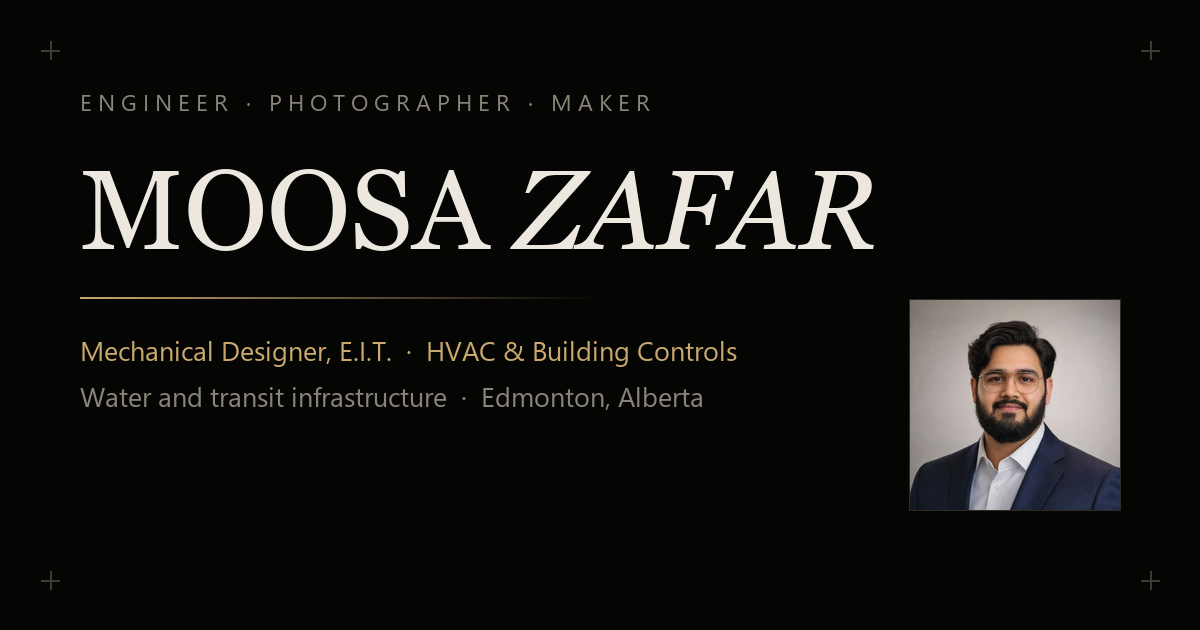
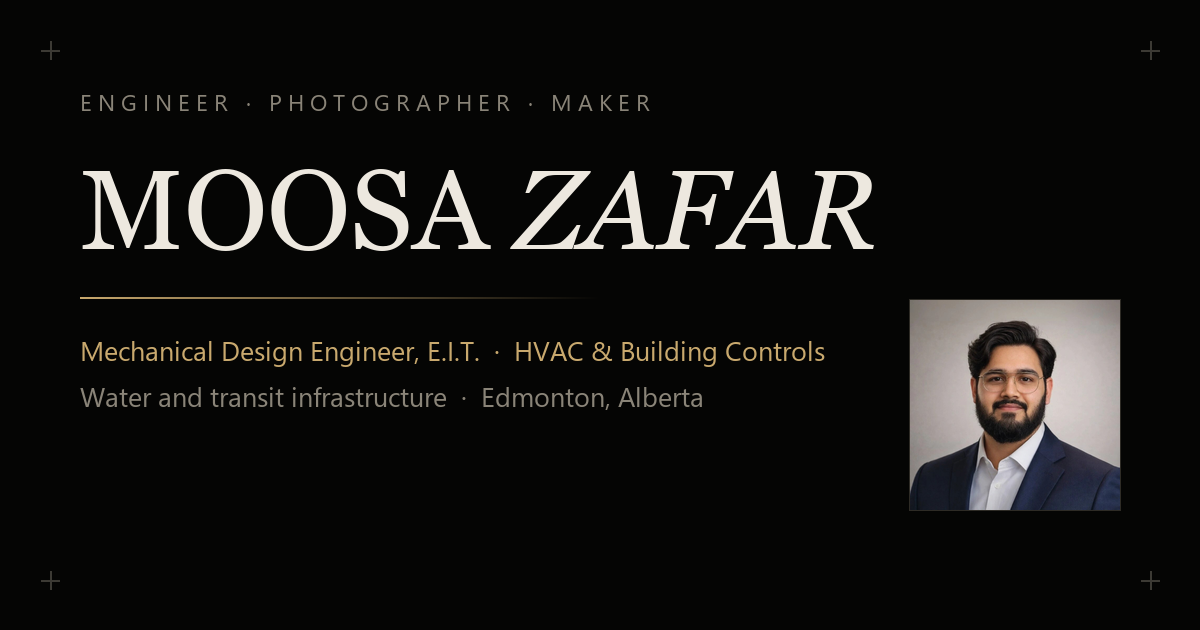
Restore job titles and figures, bring film back, screenshot as a popup
- Titles: Mechanical Design Engineer, E.I.T. and Structures & Inspection
  Engineer, E.I.T.
- Figures: 350+ sign structures, over 100 hours a year
- Photography copy mentions film and digital again
- Engineering: the calculator screenshot opens in a popup when the
  project is clicked, rather than sitting inline; loaded on first open
- Fort Smith description kept at a general level
- og.png subtitle redrawn; sitemap dates

Changed region(s): [[0.2467, 0.5429, 0.7092, 0.573]]

diff --git a/index.html b/index.html
@@ -4,8 +4,8 @@
 <meta charset="UTF-8">
 <meta name="viewport" content="width=device-width, initial-scale=1.0">
 
-<title>Moosa Zafar — Mechanical Designer, E.I.T. — Edmonton</title>
-<meta name="description" content="Moosa Zafar is a mechanical designer (E.I.T.) at AECOM in Edmonton, Alberta, working on HVAC, hydronic and building-controls design for water-treatment and transit infrastructure.">
+<title>Moosa Zafar — Mechanical Design Engineer, E.I.T. — Edmonton</title>
+<meta name="description" content="Moosa Zafar is a mechanical design engineer (E.I.T.) at AECOM in Edmonton, Alberta, working on HVAC, hydronic and building-controls design for water-treatment and transit infrastructure.">
 <meta name="author" content="Moosa Zafar">
 <link rel="canonical" href="https://moosazafar.com/">
 <meta name="theme-color" content="#050504" media="(prefers-color-scheme: dark)">
@@ -16,14 +16,14 @@
 <meta property="og:type" content="website">
 <meta property="og:site_name" content="Moosa Zafar">
 <meta property="og:url" content="https://moosazafar.com/">
-<meta property="og:title" content="Moosa Zafar — Mechanical Designer, E.I.T.">
+<meta property="og:title" content="Moosa Zafar — Mechanical Design Engineer, E.I.T.">
 <meta property="og:description" content="HVAC, hydronic and building-controls design for water-treatment and transit infrastructure. Edmonton, Alberta.">
 <meta property="og:image" content="https://moosazafar.com/og.png">
 <meta property="og:image:width" content="1200">
 <meta property="og:image:height" content="630">
-<meta property="og:image:alt" content="Moosa Zafar — Mechanical Designer, E.I.T., Edmonton, Alberta">
+<meta property="og:image:alt" content="Moosa Zafar — Mechanical Design Engineer, E.I.T., Edmonton, Alberta">
 <meta name="twitter:card" content="summary_large_image">
-<meta name="twitter:title" content="Moosa Zafar — Mechanical Designer, E.I.T.">
+<meta name="twitter:title" content="Moosa Zafar — Mechanical Design Engineer, E.I.T.">
 <meta name="twitter:description" content="HVAC and building-controls design for water and transit infrastructure.">
 <meta name="twitter:image" content="https://moosazafar.com/og.png">
 
@@ -129,7 +129,7 @@
 
       <div class="hbot">
         <p class="hbio">
-          <strong>Mechanical designer (E.I.T.)</strong> at AECOM in Edmonton —
+          <strong>Mechanical design engineer (E.I.T.)</strong> at AECOM in Edmonton —
           HVAC, hydronic and building-controls work for water-treatment and transit
           infrastructure, from the Northwest Territories to Washington State.
           I started in bridge inspection, and I still build the tool when the
@@ -246,10 +246,9 @@
           <h3 class="proj-title">Fort Smith Raw Water Intake &amp; Main Lift Station</h3>
           <p class="proj-desc">
             Rehabilitation of a northern town's raw water intake and main sewage
-            lift station. Ventilation static-pressure calculations, electrical-room
-            heat rejection and cooling sizing, review of hydronic equipment for
-            potable-water service against NSF/ANSI 61 and 372, and a line-by-line
-            review of the controls contractor's submittals.
+            lift station. Ventilation and cooling calculations, review of hydronic
+            equipment for potable-water service against NSF/ANSI 61 and 372, and
+            review of the controls submittals.
           </p>
           <ul class="proj-tags">
             <li class="tag">Ventilation</li>
@@ -323,7 +322,7 @@
       <article class="exp-item">
         <p class="exp-date"><time datetime="2025-01">Jan 2025</time><br>Present</p>
         <div class="exp-body">
-          <h3 class="exp-role">Mechanical Designer, E.I.T.</h3>
+          <h3 class="exp-role">Mechanical Design Engineer, E.I.T.</h3>
           <p class="exp-company">AECOM <span>· Edmonton, AB</span></p>
           <p class="exp-desc">
             HVAC, hydronic and building-controls design and construction support for
@@ -356,7 +355,7 @@
       <article class="exp-item">
         <p class="exp-date"><time datetime="2023-07">Jul 2023</time><br><time datetime="2024-12">Dec 2024</time></p>
         <div class="exp-body">
-          <h3 class="exp-role">Bridge Engineering Inspector, E.I.T.</h3>
+          <h3 class="exp-role">Structures &amp; Inspection Engineer, E.I.T.</h3>
           <p class="exp-company">AECOM <span>· Edmonton, AB</span></p>
           <p class="exp-desc">
             Inspected steel and concrete bridges and overhead sign structures —
@@ -367,8 +366,8 @@
           </p>
           <p class="exp-desc">
             Built the Excel VBA tools that captured field measurements and generated
-            reports and inventories for more than 300 overhead sign structures,
-            removing an estimated 100+ hours of manual data entry a year. Returned
+            reports and inventories for 350+ overhead sign structures, removing
+            over 100 hours of manual data entry a year. Returned
             in 2025 as lead on-site inspector for a bridge rehabilitation.
           </p>
           <ul class="exp-tags">
@@ -380,7 +379,7 @@
         </div>
         <div class="exp-right">
           <dl class="exp-facts">
-            <div><dt>300+</dt><dd>overhead sign structures inspected and reported</dd></div>
+            <div><dt>350+</dt><dd>overhead sign structures inspected and reported</dd></div>
             <div><dt>2025</dt><dd>lead on-site inspector, bridge rehabilitation</dd></div>
           </dl>
         </div>
@@ -537,7 +536,7 @@
   "name": "Muhammad Moosa Zafar",
   "alternateName": "Moosa Zafar",
   "url": "https://moosazafar.com/",
-  "jobTitle": "Mechanical Designer, E.I.T.",
+  "jobTitle": "Mechanical Design Engineer, E.I.T.",
   "email": "mailto:moosazafar@gmail.com",
   "worksFor": { "@type": "Organization", "name": "AECOM" },
   "alumniOf": { "@type": "CollegeOrUniversity", "name": "University of Alberta" },

diff --git a/assets/site.css b/assets/site.css
@@ -362,11 +362,24 @@ a.nlogo:hover{color:var(--text);}
 .proj:hover .proj-title{color:var(--accent);}
 .proj-desc{font-size:.84rem;color:var(--a2);line-height:1.8;max-width:62ch;}
 .proj-desc + .proj-desc{margin-top:-.35rem;}
-/* Screenshot inside a project. The app is a light Windows UI on a dark page,
-   so it gets a hairline frame and is capped rather than filling the column. */
-.proj-shot{margin:.6rem 0 .3rem;max-width:720px;}
-.proj-shot img{display:block;width:100%;height:auto;border:1px solid var(--border);}
-.proj-shot figcaption{margin-top:.6rem;font-size:.7rem;letter-spacing:.08em;color:var(--muted);}
+/* ── SCREENSHOT POPUP ───────────────────────────────────────────
+   A project with data-shot opens its screenshot in a <dialog>. The
+   whole row is the click target; the button inside it is what keyboard
+   and screen-reader users get. Without JS the button stays hidden and
+   nothing looks clickable.
+   ─────────────────────────────────────────────────────────────── */
+.proj-open{display:none;}
+.js .proj-open{display:block;}
+.js .proj.has-shot{cursor:zoom-in;}
+.shot-btn{font:inherit;font-size:.72rem;letter-spacing:.12em;text-transform:uppercase;color:var(--accent);background:none;border:0;border-bottom:1px solid currentColor;padding:0 0 3px;cursor:inherit;}
+.shot-btn:focus-visible{outline:1px solid var(--accent);outline-offset:4px;}
+.shot-dlg{position:fixed;inset:0;width:100%;height:100%;max-width:none;max-height:none;margin:0;padding:1.5rem;border:0;background:transparent;color:var(--text);cursor:zoom-out;overflow:auto;}
+.shot-dlg[open]{display:flex;flex-direction:column;align-items:center;justify-content:center;gap:.9rem;}
+.shot-dlg::backdrop{background:rgba(0,0,0,.88);}
+.shot-dlg img{display:block;max-width:min(100%,1400px);max-height:calc(100% - 4rem);width:auto;height:auto;border:1px solid var(--border);cursor:default;}
+.shot-bar{display:flex;align-items:center;gap:1.5rem;font-size:.72rem;letter-spacing:.1em;color:var(--a2);cursor:default;}
+.shot-close{font:inherit;letter-spacing:.14em;text-transform:uppercase;color:var(--text);background:none;border:1px solid var(--border);padding:.45rem .9rem;cursor:pointer;}
+.shot-close:hover,.shot-close:focus-visible{border-color:var(--accent);color:var(--accent);outline:none;}
 .proj-tags{display:flex;flex-wrap:wrap;gap:.4rem;margin-top:.2rem;list-style:none;}
 .tag{font-size:.7rem;letter-spacing:.08em;text-transform:uppercase;padding:.25rem .7rem;border:1px solid var(--border);color:var(--muted);transition:border-color .2s,color .2s;}
 .proj:hover .tag{border-color:var(--muted);color:var(--a2);}

diff --git a/photography/index.html b/photography/index.html
@@ -5,7 +5,7 @@
 <meta name="viewport" content="width=device-width, initial-scale=1.0">
 
 <title>Photography — Moosa Zafar</title>
-<meta name="description" content="Portrait photography by Moosa Zafar, Edmonton, Alberta. The work lives on Instagram at @portraitsbymoosa.">
+<meta name="description" content="Portrait photography by Moosa Zafar — film and digital, shot in and around Edmonton, Alberta. The work lives on Instagram at @portraitsbymoosa.">
 <link rel="canonical" href="https://moosazafar.com/photography/">
 <meta name="theme-color" content="#050504" media="(prefers-color-scheme: dark)">
 <meta name="theme-color" content="#f2efe8" media="(prefers-color-scheme: light)">
@@ -14,7 +14,7 @@
 <meta property="og:site_name" content="Moosa Zafar">
 <meta property="og:url" content="https://moosazafar.com/photography/">
 <meta property="og:title" content="Photography — Moosa Zafar">
-<meta property="og:description" content="Portrait photography. The work lives on Instagram at @portraitsbymoosa.">
+<meta property="og:description" content="Portraits on film and digital. The work lives on Instagram at @portraitsbymoosa.">
 <meta property="og:image" content="https://moosazafar.com/og.png">
 <meta name="twitter:card" content="summary_large_image">
 <meta name="twitter:image" content="https://moosazafar.com/og.png">
@@ -70,7 +70,7 @@
   <main id="main">
     <header class="ph">
       <div class="ph-top">
-        <p class="ph-eyebrow">Portraits</p>
+        <p class="ph-eyebrow">Portraits · Film · Digital</p>
         <p class="ph-eyebrow">Edmonton, AB</p>
       </div>
       <h1 class="ph-title">
@@ -78,7 +78,8 @@
       </h1>
       <div class="ph-line" id="phline" aria-hidden="true"></div>
       <p class="ph-desc">
-        Portraits. I post the work as I shoot it — the feed is the portfolio.
+        Portraits, on film and digital, mostly shot in and around Edmonton.
+        I post the work as I shoot it — the feed is the portfolio.
       </p>
     </header>
 
@@ -100,7 +101,7 @@
         <span class="iswp" aria-hidden="true"></span>
         <span class="in">01 · Instagram</span>
         <span class="it">@portraitsbymoosa</span>
-        <span class="isub">The main feed — portraits, posted as I shoot.</span>
+        <span class="isub">The main feed — portraits on film and digital, posted as I shoot.</span>
         <span class="iarr" aria-hidden="true">↗</span>
       </a>
     </nav>
@@ -117,7 +118,7 @@
 
     <div class="tkr" aria-hidden="true">
       <div class="tkri" id="tkri"
-           data-items="Photography|Portraits|Edmonton AB"></div>
+           data-items="Photography|Portraits|Film &amp; digital|35mm|Edmonton AB"></div>
     </div>
   </main>
 

diff --git a/assets/site.js b/assets/site.js
@@ -520,4 +520,67 @@
       });
     });
   });
+
+  /* ── SCREENSHOT POPUP ─────────────────────────────────────────
+     A project row carrying data-shot opens that image in a modal
+     <dialog>. Built on first use, so the image is not downloaded by
+     people who never open it. Escape, the Close button, or a click
+     anywhere outside the image closes it.
+     ──────────────────────────────────────────────────────────── */
+  safe('screenshot popup', function () {
+    var rows = $$('.proj[data-shot]');
+    if (!rows.length || !window.HTMLDialogElement) {
+      $$('.proj-open').forEach(function (el) { el.style.display = 'none'; });
+      rows.forEach(function (el) { el.classList.remove('has-shot'); });
+      return;
+    }
+    var dlg = null, img = null, cap = null, opener = null;
+
+    function build() {
+      dlg = document.createElement('dialog');
+      dlg.className = 'shot-dlg';
+      img = document.createElement('img');
+      var bar = document.createElement('div');
+      bar.className = 'shot-bar';
+      cap = document.createElement('span');
+      var close = document.createElement('button');
+      close.type = 'button';
+      close.className = 'shot-close';
+      close.textContent = 'Close';
+      bar.appendChild(cap);
+      bar.appendChild(close);
+      dlg.appendChild(img);
+      dlg.appendChild(bar);
+      document.body.appendChild(dlg);
+      dlg.addEventListener('click', function (e) {
+        if (e.target === img || e.target === cap || e.target === bar) return;
+        dlg.close();
+      });
+      dlg.addEventListener('close', function () {
+        if (opener && opener.focus) opener.focus();
+        opener = null;
+      });
+    }
+
+    function open(row, from) {
+      if (!dlg) build();
+      img.src = row.getAttribute('data-shot');
+      img.width = +row.getAttribute('data-shot-w') || 0;
+      img.height = +row.getAttribute('data-shot-h') || 0;
+      img.alt = row.getAttribute('data-shot-alt') || '';
+      cap.textContent = row.getAttribute('data-shot-cap') || '';
+      dlg.setAttribute('aria-label', cap.textContent || 'Screenshot');
+      opener = from;
+      dlg.showModal();
+    }
+
+    rows.forEach(function (row) {
+      var btn = $('.shot-btn', row);
+      row.addEventListener('click', function (e) {
+        if (e.target.closest && e.target.closest('a')) return;
+        if (window.getSelection && String(window.getSelection())) return;
+        open(row, btn);
+      });
+    });
+  });
 })();

diff --git a/engineering/index.html b/engineering/index.html
@@ -115,7 +115,9 @@
         </div>
       </article>
 
-      <article class="proj">
+      <article class="proj has-shot" data-shot="/images/esp-calculator.webp" data-shot-w="2000" data-shot-h="1300"
+               data-shot-alt="The calculator window: a list of duct system components on the left, a tree of fitting types in the middle, and the calculated velocity, loss coefficient and pressure drop for a round mitered elbow on the right."
+               data-shot-cap="HVAC Static Pressure Calculator, version 5">
         <p class="proj-num">02</p>
         <div class="proj-body">
           <h2 class="proj-title">HVAC ESP Calculator</h2>
@@ -131,11 +133,9 @@
             Excel with the job and checker fields filled in. Packaged as a standalone
             executable and handed to colleagues.
           </p>
-          <figure class="proj-shot">
-            <img src="/images/esp-calculator.webp" width="2000" height="1300" loading="lazy" decoding="async"
-                 alt="The calculator window: a list of duct system components on the left, a tree of fitting types in the middle, and the calculated velocity, loss coefficient and pressure drop for a round mitered elbow on the right.">
-            <figcaption>Version 5 — fitting picker, component editor and results.</figcaption>
-          </figure>
+          <p class="proj-open">
+            <button type="button" class="shot-btn">View the calculator <span aria-hidden="true">↗</span></button>
+          </p>
           <ul class="proj-tags">
             <li class="tag">Python</li>
             <li class="tag">Tkinter</li>
@@ -157,7 +157,7 @@
             A set of Excel tools, built with UserForms and VBA, for capturing bridge
             and sign-structure inspection measurements in the field and turning them
             into reports and inventories without retyping. Used across an inspection
-            program of more than 300 overhead sign structures.
+            program of 350+ overhead sign structures.
           </p>
           <p class="proj-desc">
             Later reworked the measurement tool for a multi-year bridge inspection so
